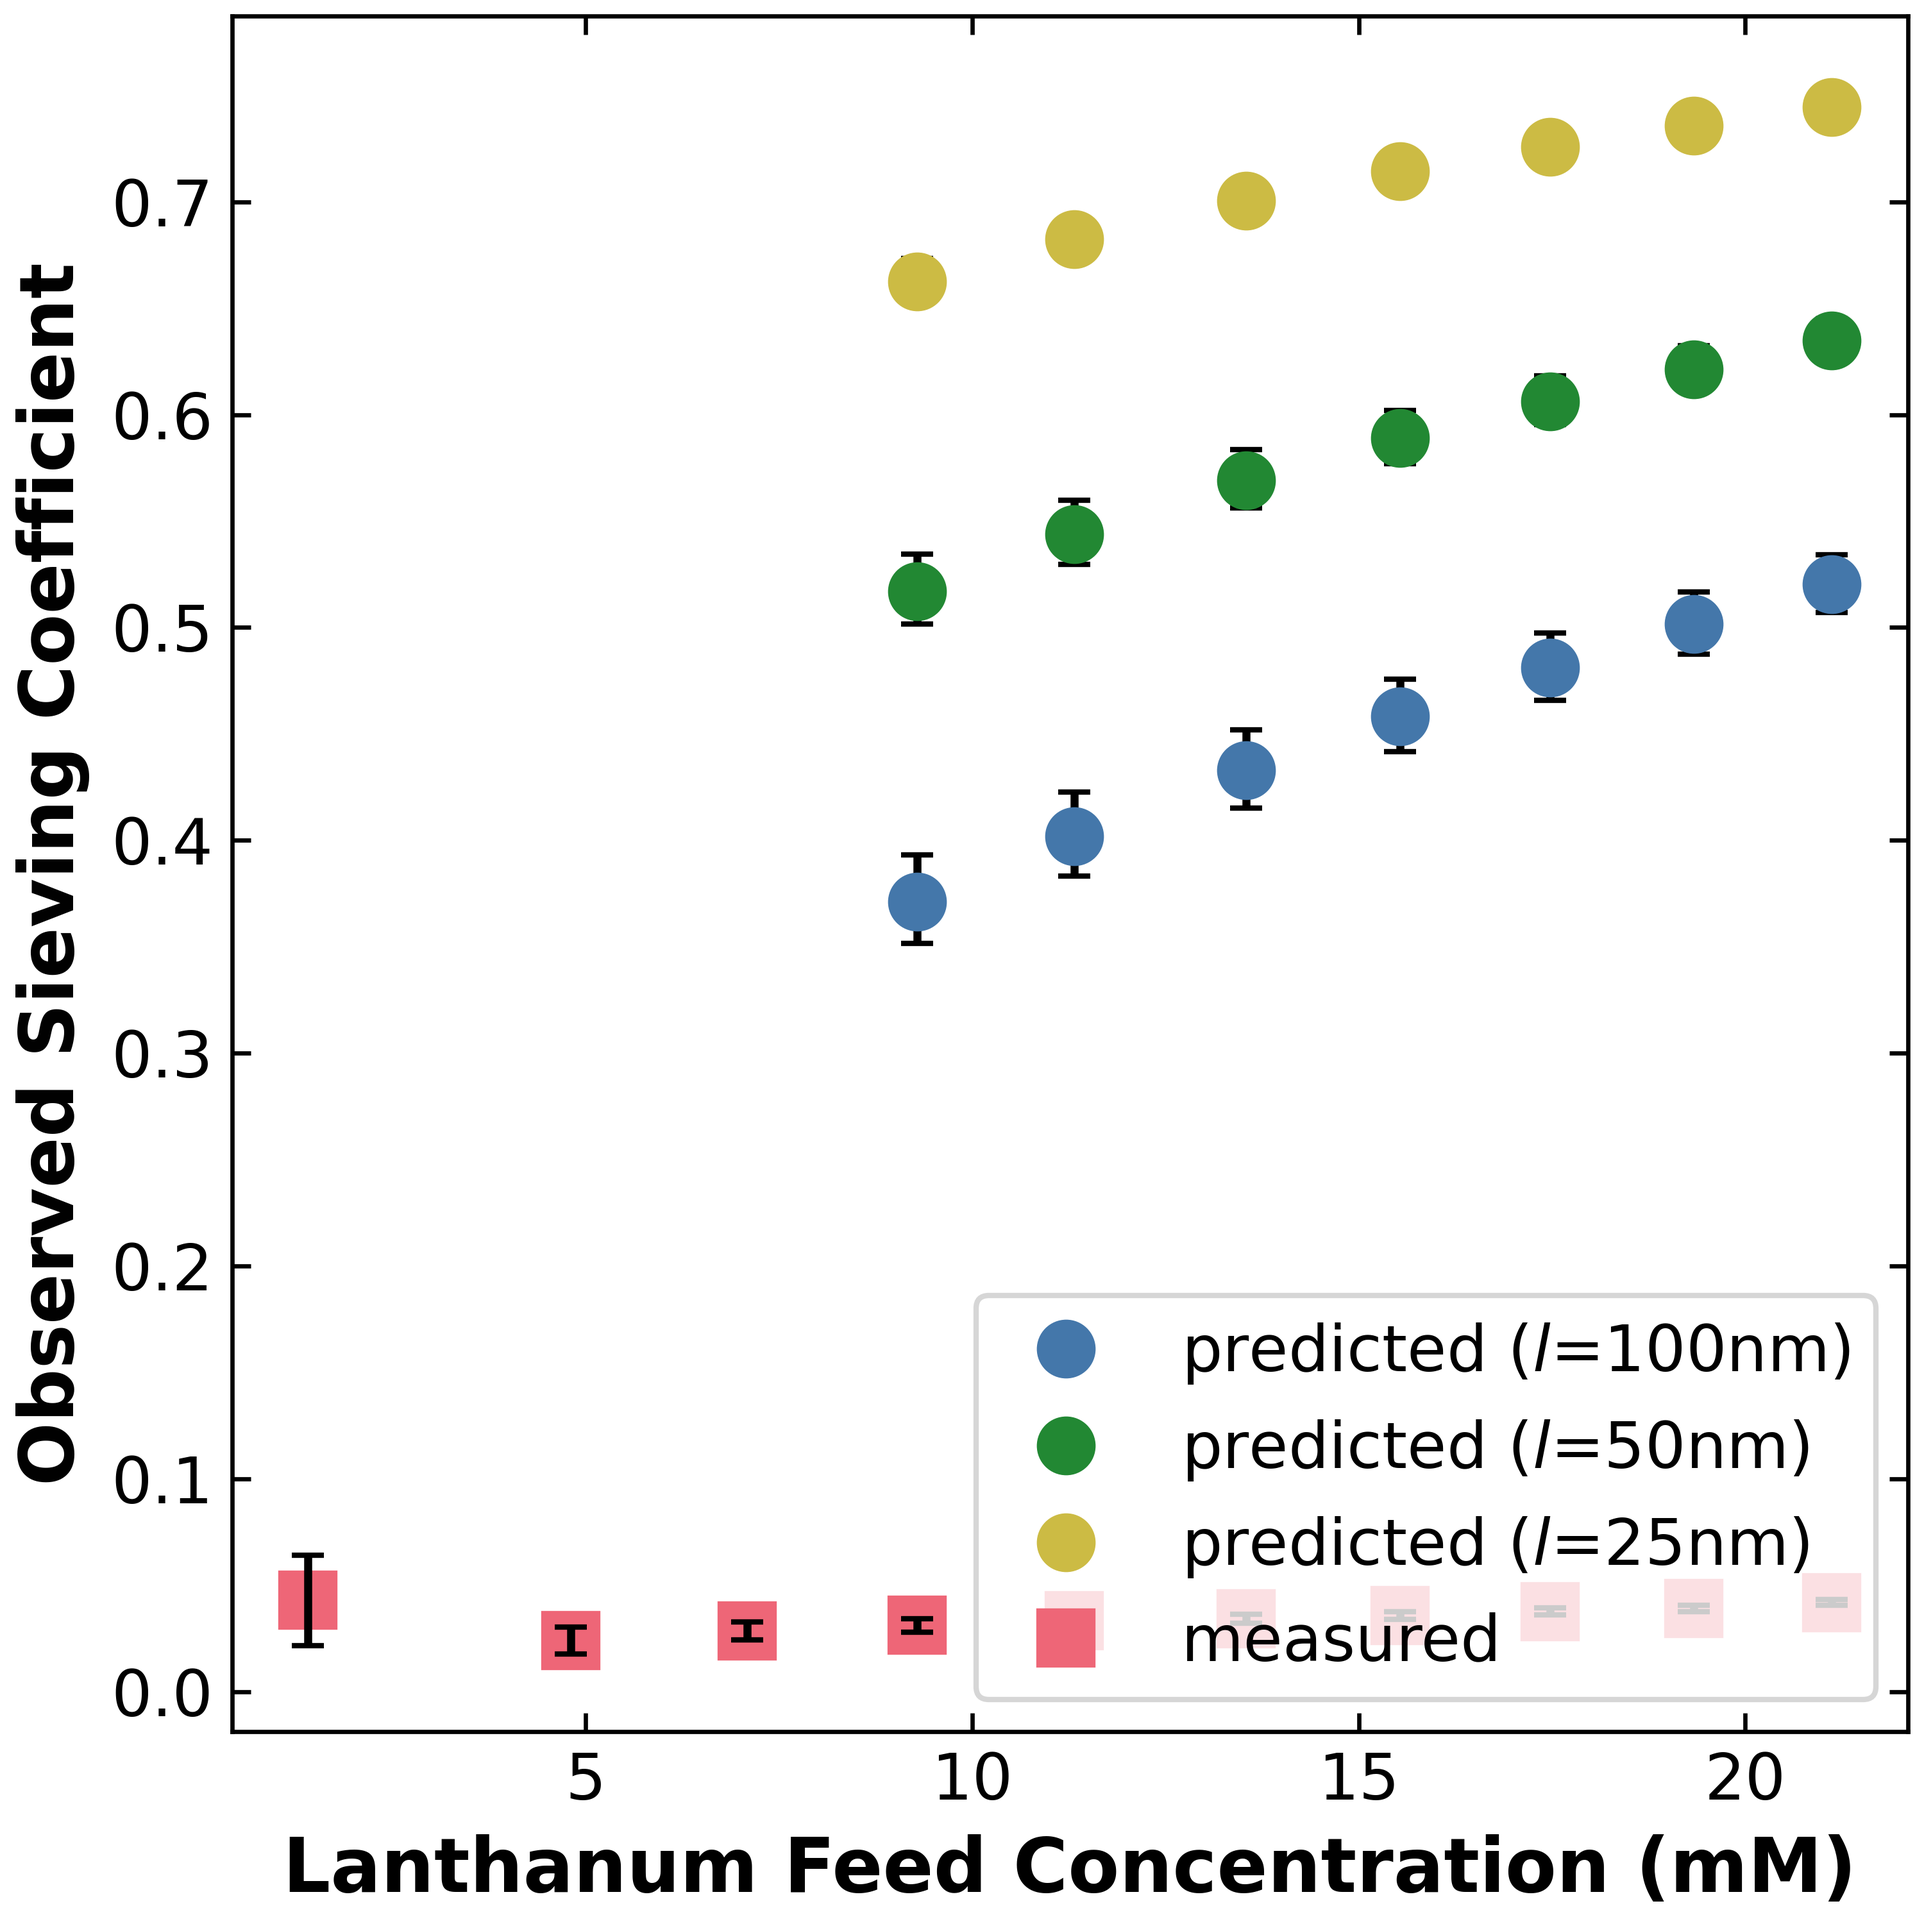
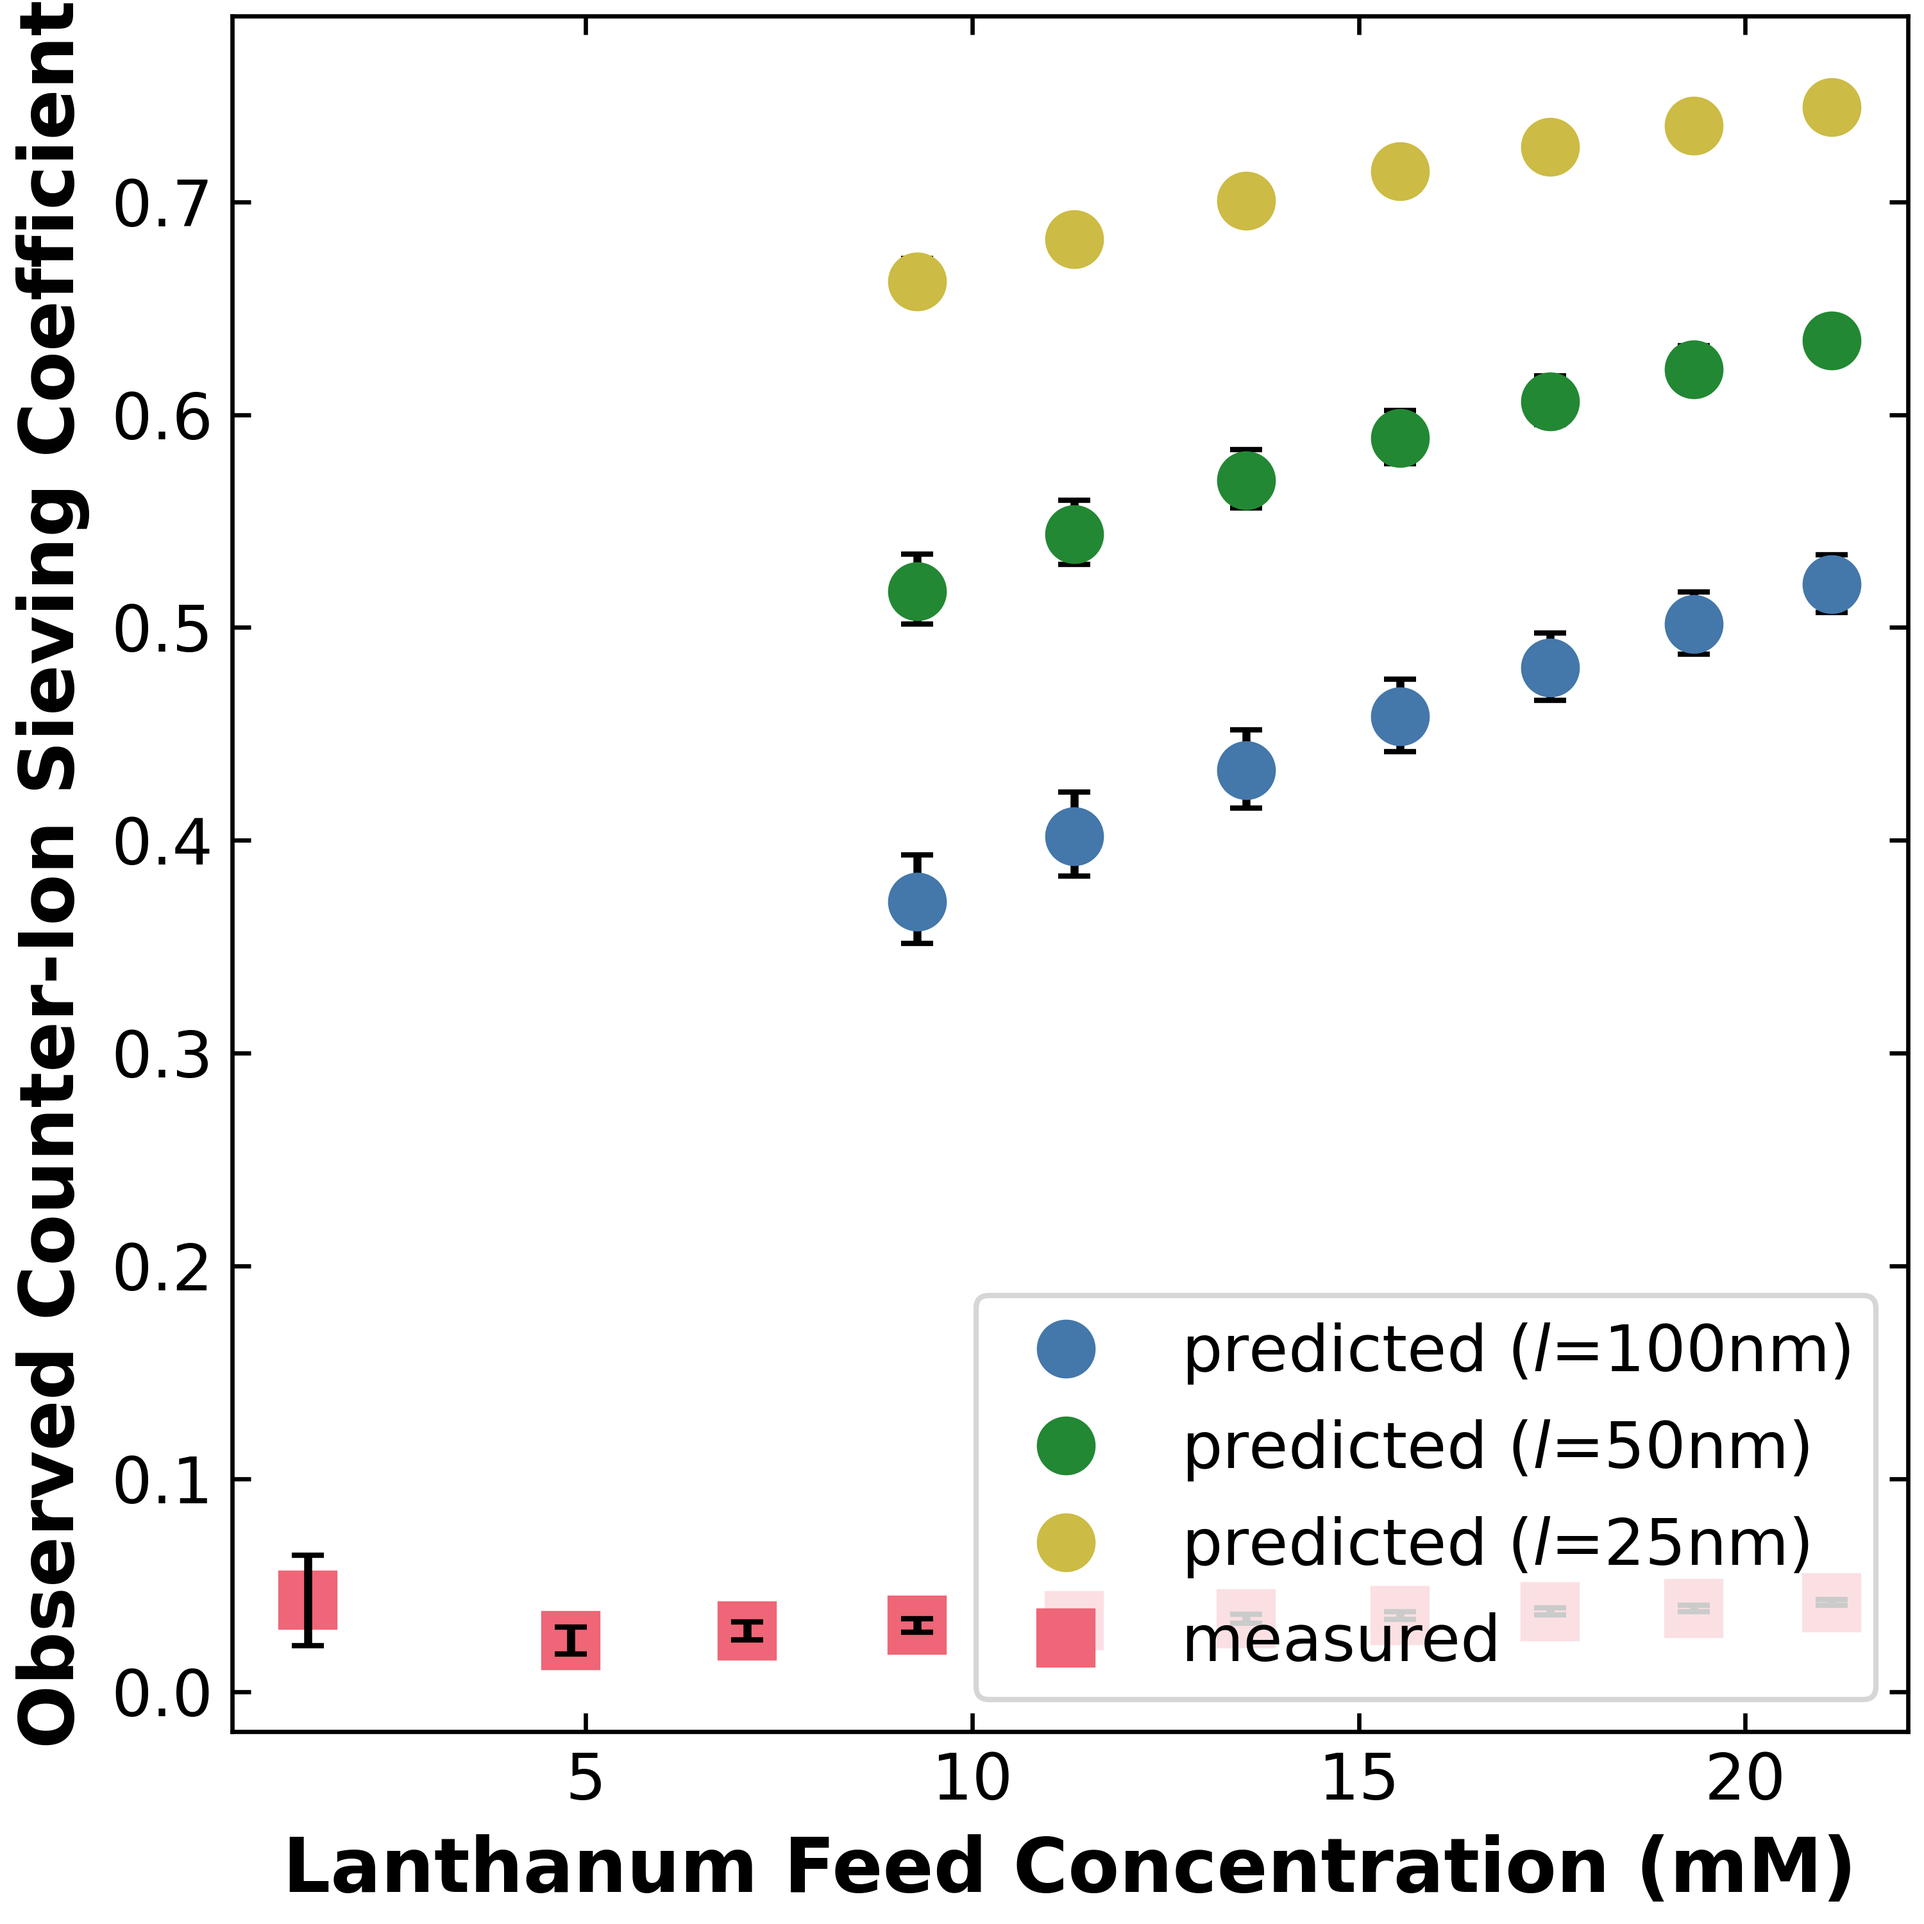
final icom result checkpoint

Changed region(s): [[0.0, 0.0, 0.062, 0.93]]

diff --git a/src/prommis/nanofiltration/multi_component_analysis.py b/src/prommis/nanofiltration/multi_component_analysis.py
@@ -61,11 +61,11 @@ def main():
         set_IS=set_IS,
     )
 
-    data_comparison_plots(save_figure=True)
+    # data_comparison_plots(save_figure=True)
 
     # rejection_plots_equimolar(x_axis="ionic_strength", sieving=False, save_figure=True)
     rejection_plots_equimolar(x_axis="ionic_strength", sieving=True, save_figure=True)
-    # h_plots_equimolar(x_axis="ionic_strength",  inset=True, save_figure=True)
+    h_plots_equimolar(x_axis="ionic_strength", inset=True, save_figure=True)
 
     # combined_plots_vary_salt_ratio(save_figure=True)
     # plot_only_rejections(save_figure=True)
@@ -240,18 +240,18 @@ def solve_and_save_models(
     if run_data:
         # set concentrations
         feed = {
-            # "Na": [
-            #     9.6199,
-            #     30.5114,
-            #     43.1343,
-            #     54.5286,
-            #     64.7312,
-            #     74.1947,
-            #     83.0378,
-            #     91.3303,
-            #     98.4631,
-            #     105.1806,
-            # ],
+            "Na": [
+                9.6199,
+                30.5114,
+                43.1343,
+                54.5286,
+                64.7312,
+                74.1947,
+                83.0378,
+                91.3303,
+                98.4631,
+                105.1806,
+            ],
             "Ca": [
                 3.0588,
                 10.4631,
@@ -1010,7 +1010,7 @@ def data_comparison_plots(save_figure=True):
     )
     for ax in [ax1, ax2, ax3]:
         ax.set_ylabel(
-            "Observed Sieving Coefficient", fontsize=fontsize, fontweight="bold"
+            "Observed Sodium Sieving Coefficient", fontsize=fontsize, fontweight="bold"
         )
         ax.plot(
             [],
@@ -1418,7 +1418,9 @@ def rejection_plots_equimolar(x_axis="ionic_strength", sieving=True, save_figure
 
     if sieving:
         ax1a.set_ylabel(
-            "Observed Cation\nSieving Coefficient", fontsize=fontsize, fontweight="bold"
+            "Observed Counter-Ion\nSieving Coefficient",
+            fontsize=fontsize,
+            fontweight="bold",
         )
         # ax2a.set_ylabel(
         #     "Observed Anionn\nSieving Coefficient", fontsize=fontsize, fontweight="bold"
@@ -1455,8 +1457,8 @@ def rejection_plots_equimolar(x_axis="ionic_strength", sieving=True, save_figure
             "ax": ax1a,
             "salt_colors": {
                 "single salt": li_color,
-                "two salt: +1 & +2": li_co_color,
-                "two salt: +1 & +3": li_al_color,
+                "two salt (1:1 & 1:2)": li_co_color,
+                "two salt (1:1 & 1:3)": li_al_color,
                 # "LiCl + CoCl$_2$ + AlCl$_3$": li_co_al_color,
             },
         },
@@ -1465,8 +1467,8 @@ def rejection_plots_equimolar(x_axis="ionic_strength", sieving=True, save_figure
             "ax": ax1b,
             "salt_colors": {
                 "single salt": co_color,
-                "two salt: +1 & +2": li_co_color,
-                "two salt: +2 & +3": co_al_color,
+                "two salt (1:1 & 1:2)": li_co_color,
+                "two salt (1:2 & 1:3)": co_al_color,
                 # "LiCl + CoCl$_2$ + AlCl$_3$": li_co_al_color,
             },
         },
@@ -1475,8 +1477,8 @@ def rejection_plots_equimolar(x_axis="ionic_strength", sieving=True, save_figure
             "ax": ax1c,
             "salt_colors": {
                 "single salt": al_color,
-                "two salt: +1 & +3": li_al_color,
-                "two salt: +2 & +3": co_al_color,
+                "two salt (1:1 & 1:3)": li_al_color,
+                "two salt (1:2 & 1:3)": co_al_color,
                 # "LiCl + CoCl$_2$ + AlCl$_3$": li_co_al_color,
             },
         },
@@ -1508,21 +1510,21 @@ def rejection_plots_equimolar(x_axis="ionic_strength", sieving=True, save_figure
         loc="best",
         fontsize=fontsize - 2,
         # bbox_to_anchor=(0.85, -0.3),
-        title="+1 Cation in:",
+        title="monovalent counter-ion in:",
         title_fontsize=fontsize - 2,
     )
     ax1b.legend(
         loc="best",
         fontsize=fontsize - 2,
         # bbox_to_anchor=(0.85, -0.3),
-        title="+2 Cation in:",
+        title="divalent counter-ion in:",
         title_fontsize=fontsize - 2,
     )
     ax1c.legend(
         loc="best",
         fontsize=fontsize - 2,
         # bbox_to_anchor=(0.85, -0.3),
-        title="+3 Cation in:",
+        title="trivalent counter-ion in:",
         title_fontsize=fontsize - 2,
     )
 
@@ -1823,7 +1825,7 @@ def h_plots_equimolar(x_axis="ionic_strength", inset=True, save_figure=True):
     # ax3d.set_title("Chloride", fontsize=fontsize, fontweight="bold")
 
     ax3a.set_ylabel(
-        "$\mathbf{c_{membrane}/c_{interface}}$", fontsize=fontsize, fontweight="bold"
+        "Overall Partition Coefficient", fontsize=fontsize, fontweight="bold"
     )
     # ax4a.set_ylabel(
     #     "$\mathbf{c_{membrane}/c_{permeate}}$", fontsize=fontsize, fontweight="bold"
@@ -1853,8 +1855,8 @@ def h_plots_equimolar(x_axis="ionic_strength", inset=True, save_figure=True):
             "ax": ax3a,
             "salt_colors": {
                 "single salt": li_color,
-                "two salt: +1 & +2": li_co_color,
-                "two salt: +1 & +3": li_al_color,
+                "two salt (1:1 & 1:2)": li_co_color,
+                "two salt (1:1 & 1:3)": li_al_color,
                 # "LiCl + CoCl$_2$ + AlCl$_3$": li_co_al_color,
             },
         },
@@ -1863,8 +1865,8 @@ def h_plots_equimolar(x_axis="ionic_strength", inset=True, save_figure=True):
             "ax": ax3b,
             "salt_colors": {
                 "single salt": co_color,
-                "two salt: +1 & +2": li_co_color,
-                "two salt: +2 & +3": co_al_color,
+                "two salt (1:1 & 1:2)": li_co_color,
+                "two salt (1:2 & 1:3)": co_al_color,
                 # "LiCl + CoCl$_2$ + AlCl$_3$": li_co_al_color,
             },
         },
@@ -1873,8 +1875,8 @@ def h_plots_equimolar(x_axis="ionic_strength", inset=True, save_figure=True):
             "ax": ax3c,
             "salt_colors": {
                 "single salt": al_color,
-                "two salt: +1 & +3": li_al_color,
-                "two salt: +2 & +3": co_al_color,
+                "two salt (1:1 & 1:3)": li_al_color,
+                "two salt (1:2 & 1:3)": co_al_color,
                 # "LiCl + CoCl$_2$ + AlCl$_3$": li_co_al_color,
             },
         },
@@ -1896,21 +1898,21 @@ def h_plots_equimolar(x_axis="ionic_strength", inset=True, save_figure=True):
         loc="best",
         fontsize=fontsize - 2,
         # bbox_to_anchor=(0.85, -0.3),
-        title="+1 Cation in:",
+        title="monovalent counter-ion in:",
         title_fontsize=fontsize - 2,
     )
     ax3b.legend(
         loc="best",
         fontsize=fontsize - 2,
         # bbox_to_anchor=(0.85, -0.3),
-        title="+2 Cation in:",
+        title="divalent counter-ion in:",
         title_fontsize=fontsize - 2,
     )
     ax3c.legend(
         loc="best",
         fontsize=fontsize - 2,
         # bbox_to_anchor=(0.85, -0.3),
-        title="+3 Cation in:",
+        title="trivalent counter-ion in:",
         title_fontsize=fontsize - 2,
     )
 
@@ -3476,10 +3478,10 @@ def plot_flux_contributions(x_axis="ionic_strength", percent=False, save_figure=
         al_label = "Contribution to ALuminum Flux (%)"
         cl_label = "Contribution to Chloride Flux (%)"
     else:
-        li_label = "+1 Cation Flux (mol m$\mathbf{^{-2}}$ h$\mathbf{^{-1}}$)"
+        li_label = "Counter-Ion Flux (mol m$\mathbf{^{-2}}$ h$\mathbf{^{-1}}$)"
         co_label = "Cobalt Flux (mol m$\mathbf{^{-2}}$ h$\mathbf{^{-1}}$)"
         al_label = "Aluminum Flux (mol m$\mathbf{^{-2}}$ h$\mathbf{^{-1}}$)"
-        cl_label = "Chloride Flux (mol m$\mathbf{^{-2}}$ h$\mathbf{^{-1}}$)"
+        cl_label = "Co-ion Flux (mol m$\mathbf{^{-2}}$ h$\mathbf{^{-1}}$)"
 
     ax1a.set_ylabel(
         li_label,
